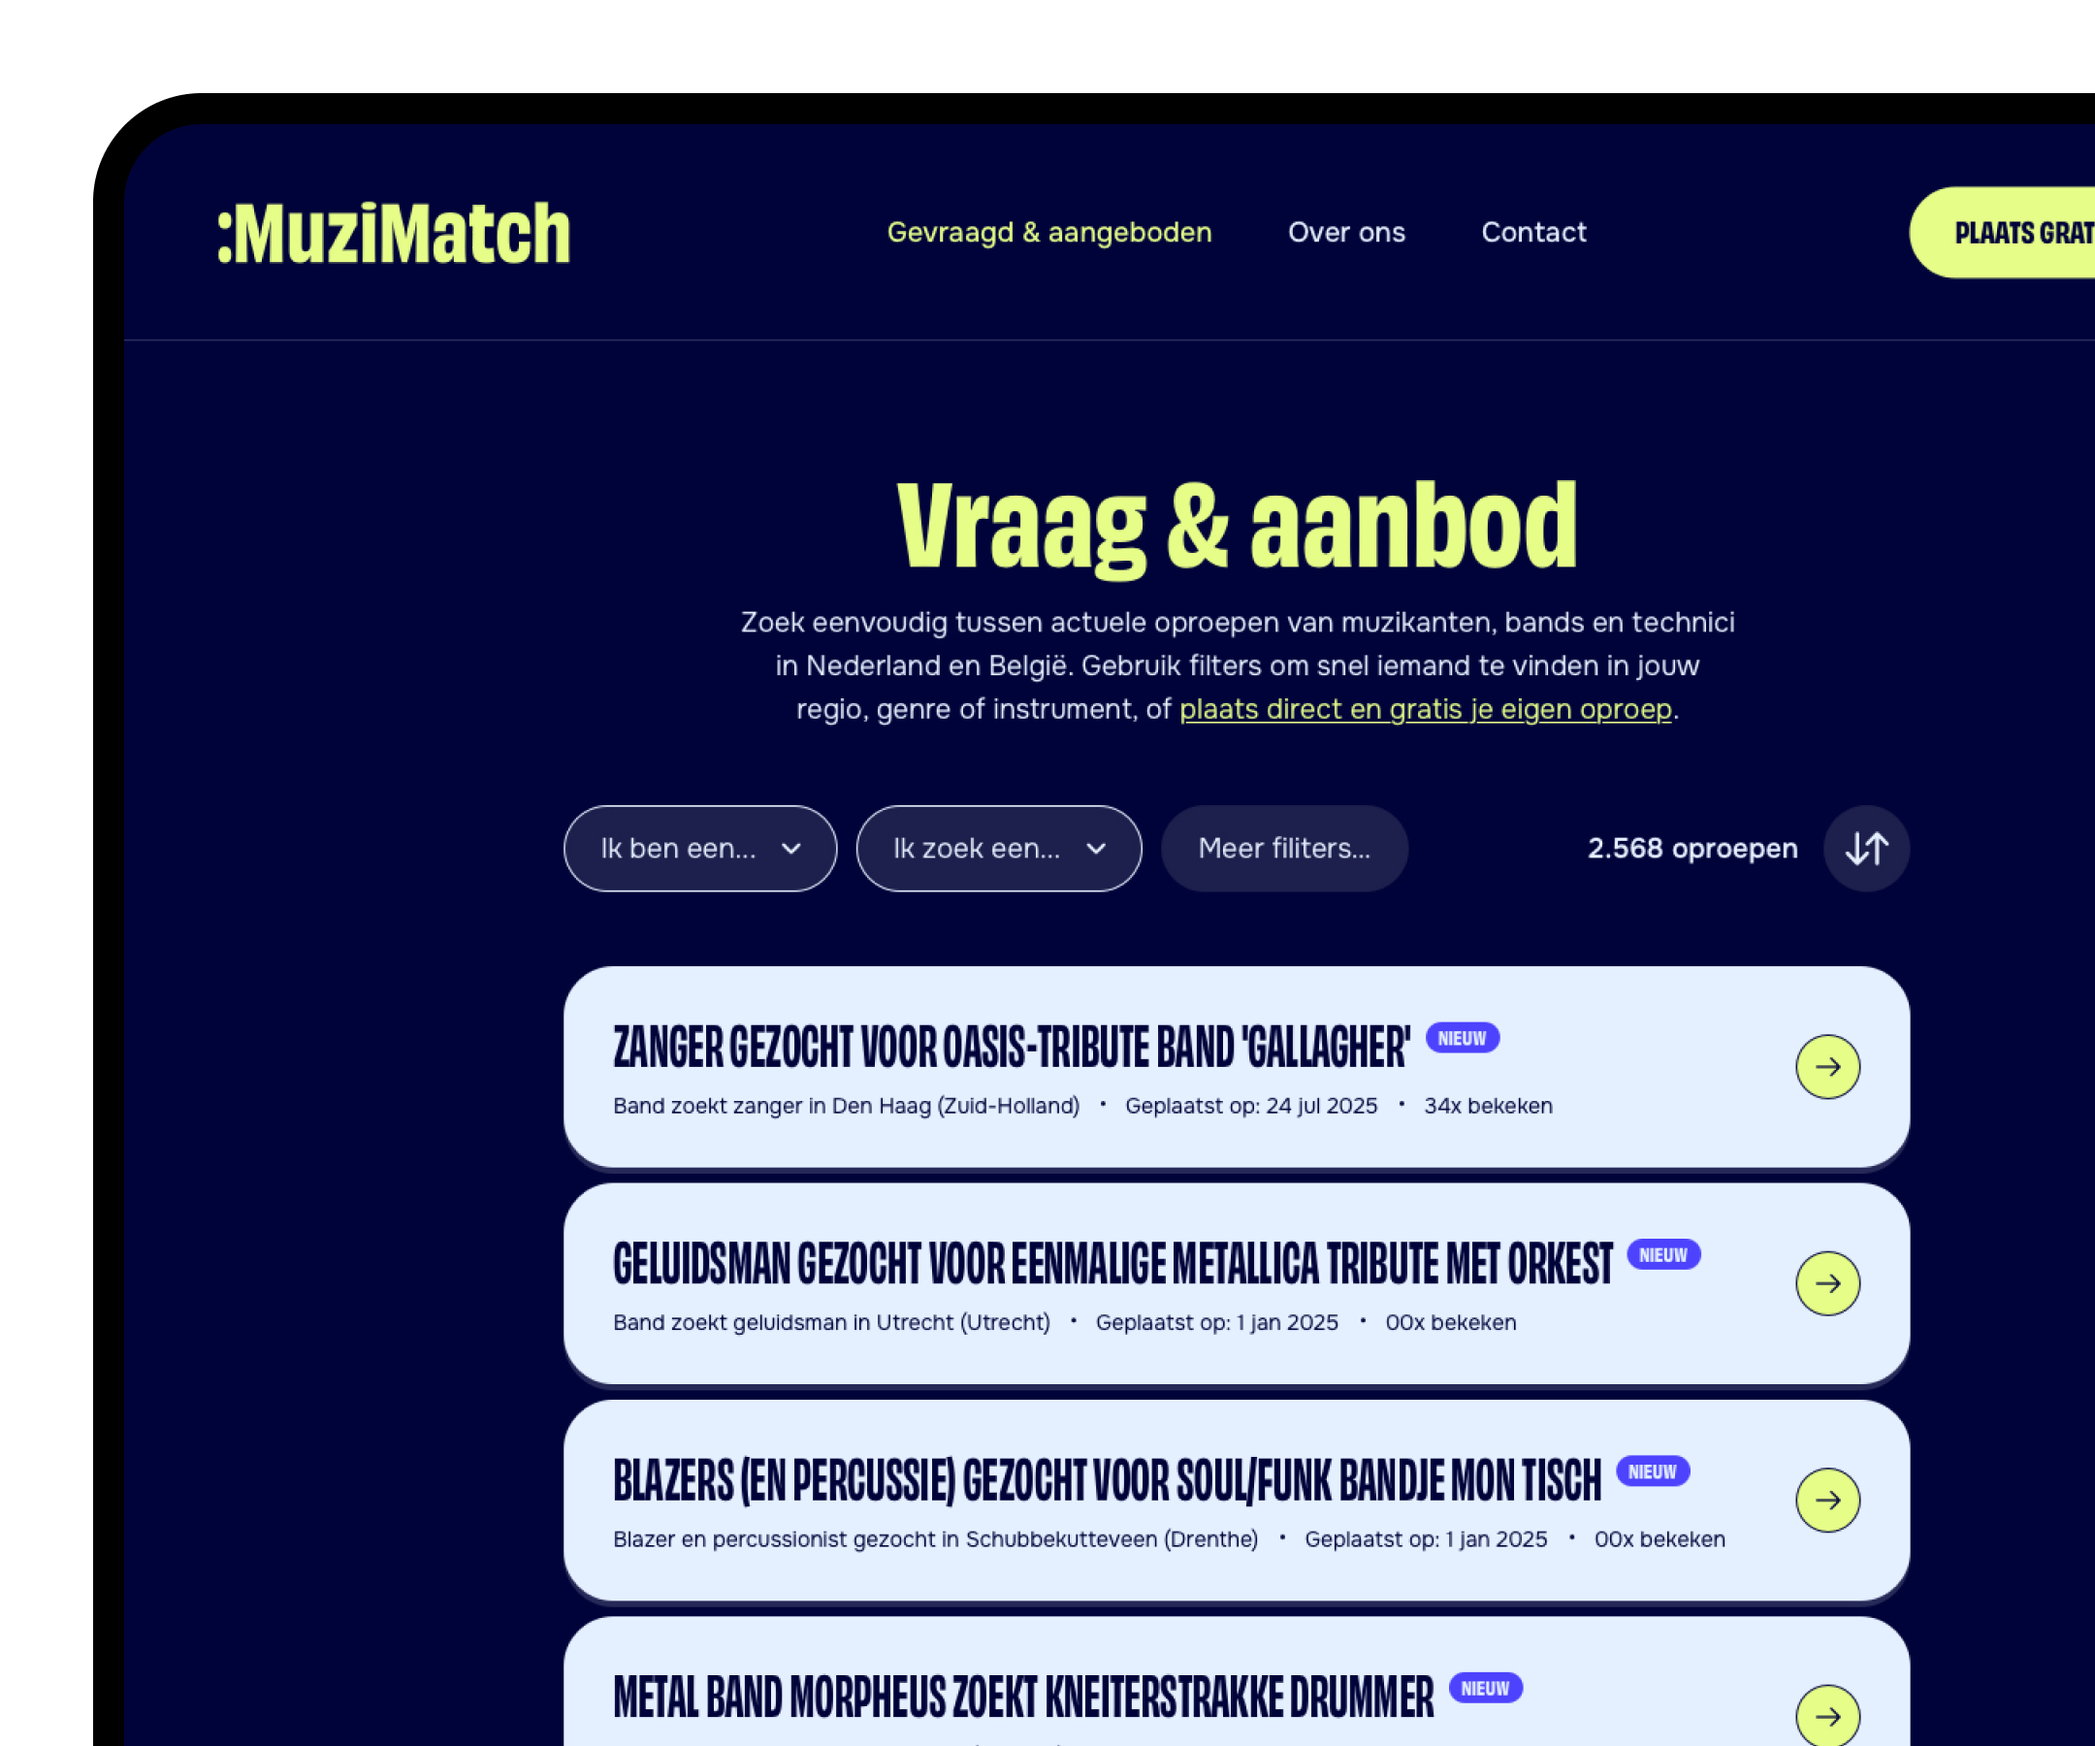
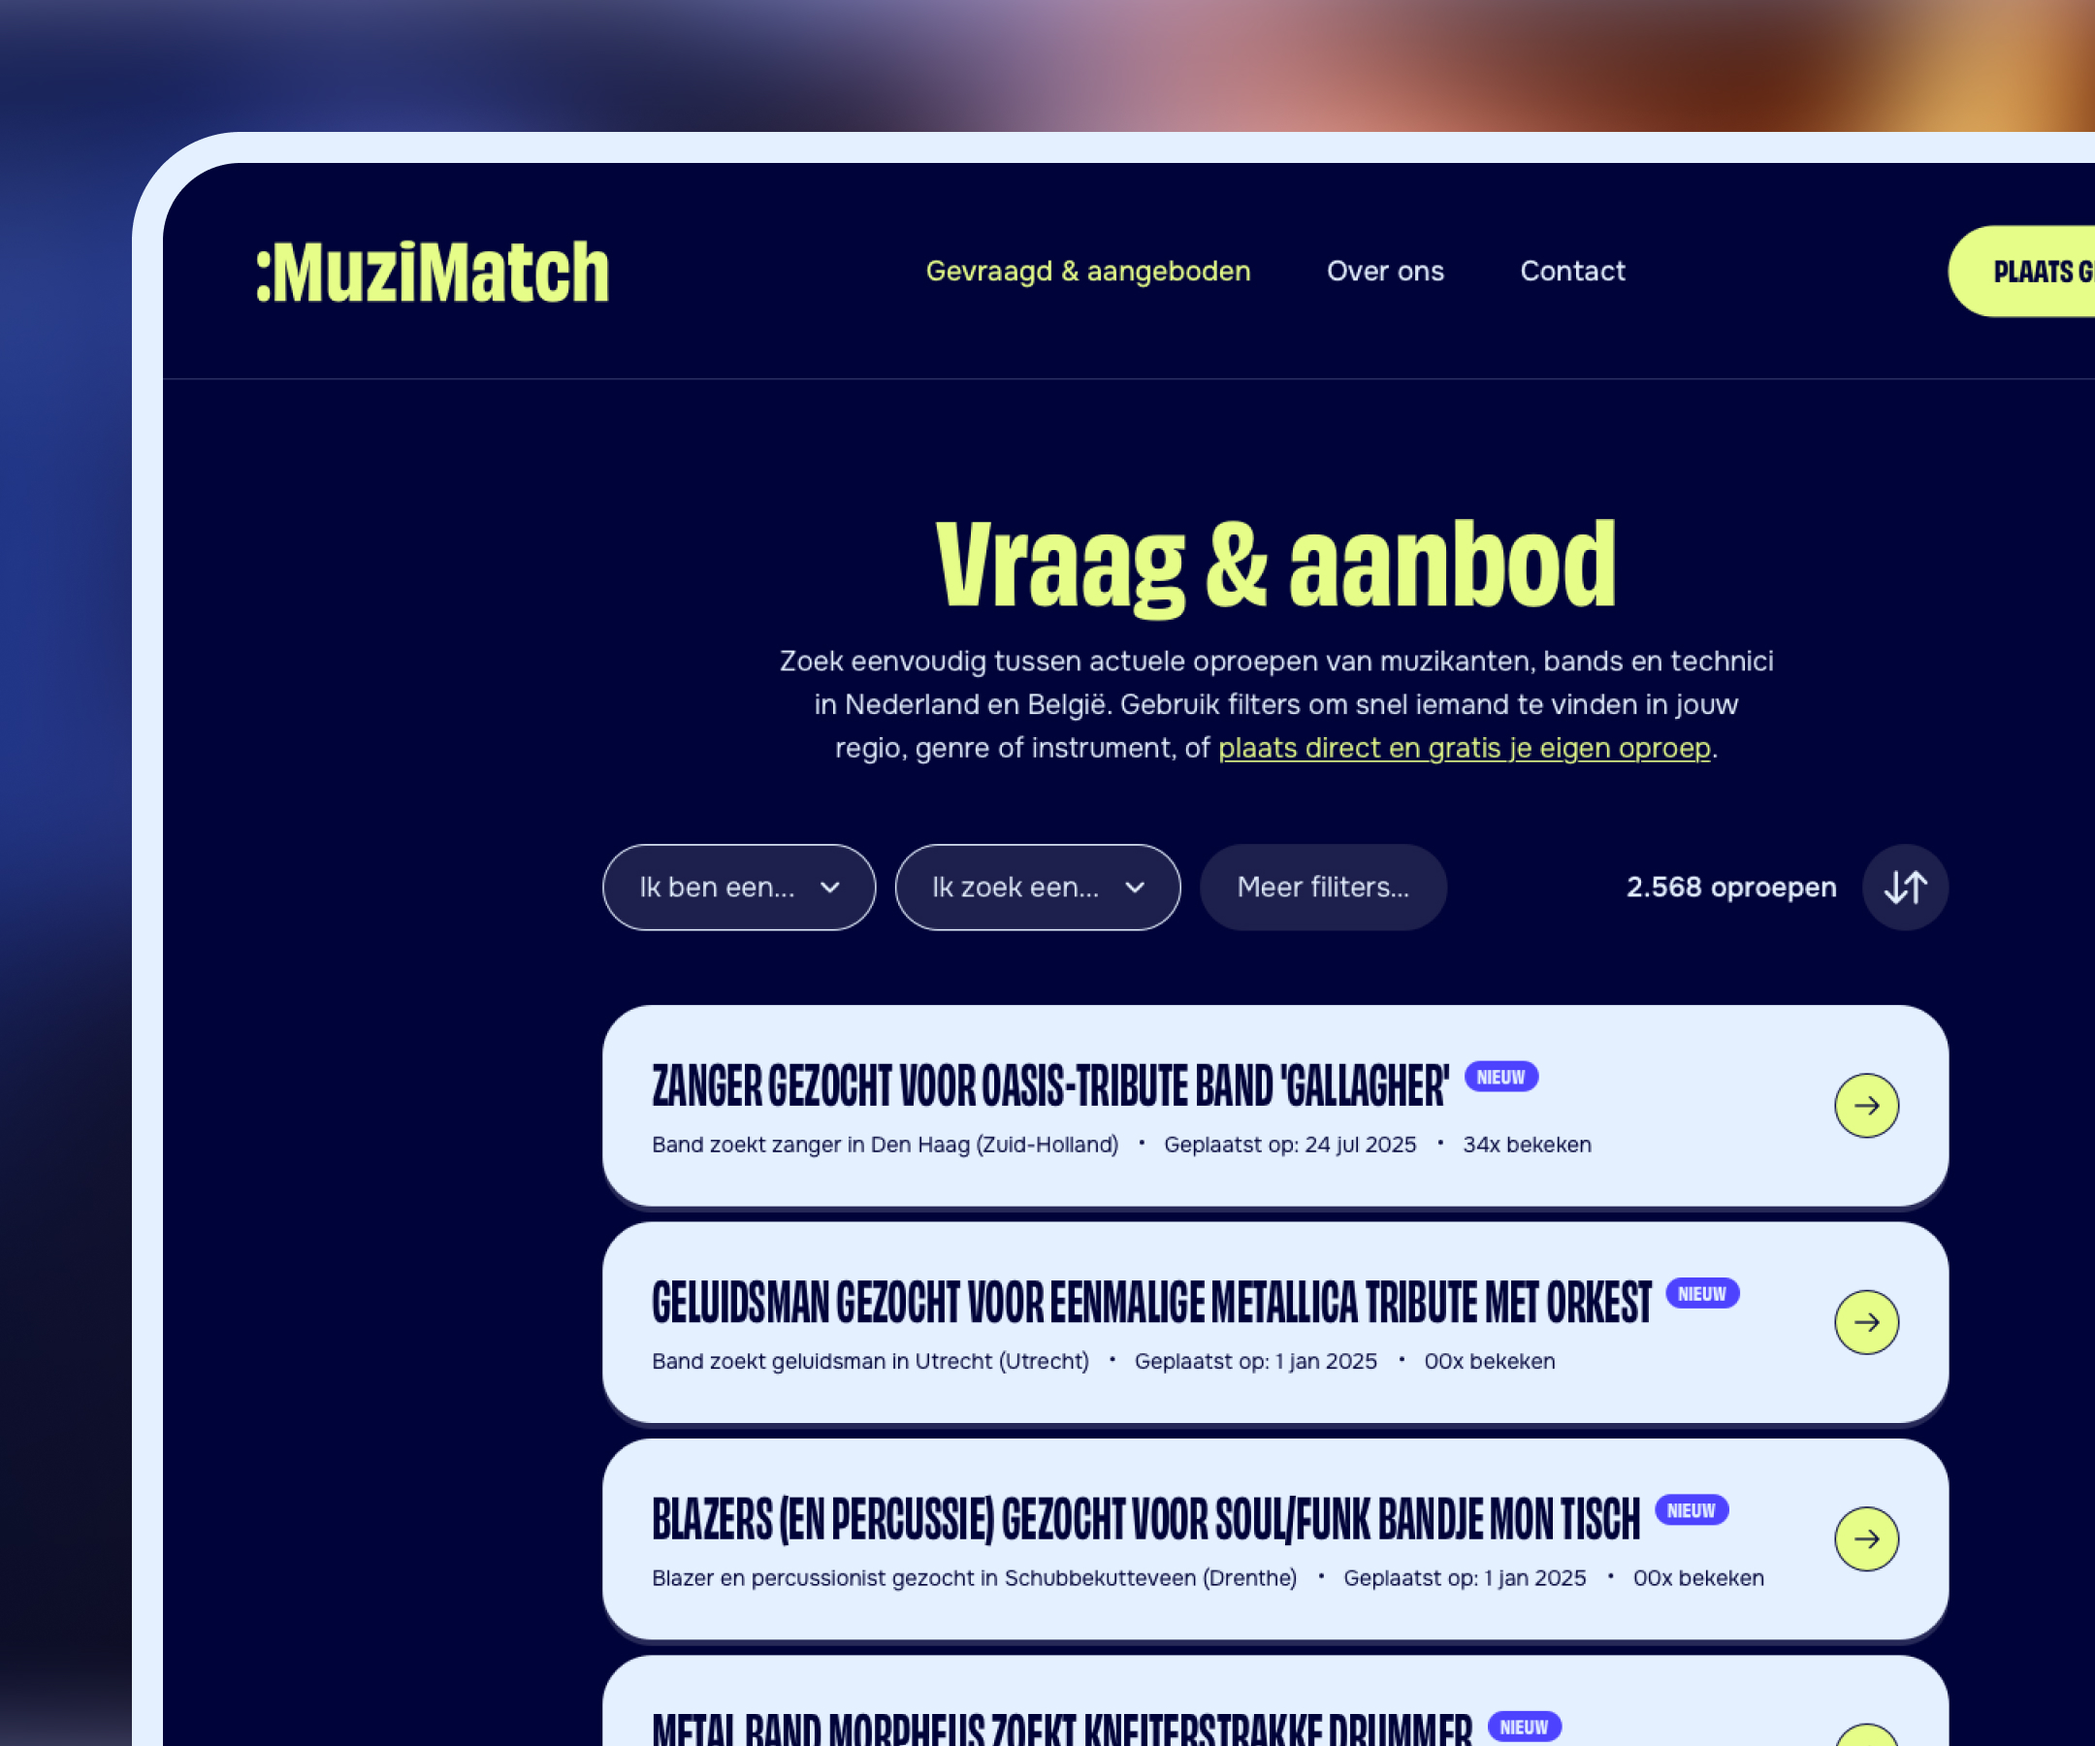
feat: expand MuziMatch case study

diff --git a/src/content/en/projects/muzimatch.ts b/src/content/en/projects/muzimatch.ts
@@ -1,9 +1,5 @@
 import type { ProjectContent } from '../../types'
 
-const paragraphOne = 'Finding musicians online often means relying on outdated platforms, scattered communities or services that add unnecessary friction to making contact. I saw an opportunity for a simpler approach, focused on helping musicians discover relevant people and get in touch with as little friction as possible.'
-const paragraphTwo = 'Voluptatum ratione dolor cupiditate ipsum praesentium dolor dolore mollitia dolores ut libero laudantium non in aut. Id nisi qui quibusdam velit non a fugit itaque necessitatibus rerum dolorum et enim vel.'
-const paragraphThree = 'Et sit repellat voluptas debitis et iusto quia vero corporis cum in qui nesciunt ipsum. Minima voluptate perspiciatis sapiente deleniti in et et est optio. Consectetur cupiditate sint saepe voluptates corporis enim excepturi. Sunt ad laudantium odio sit necessitatibus cum hic minima velit reprehenderit non ipsa impedit quis. Animi quo qui a neque sequi ut eum distinctio sed eos consequuntur.'
-
 const muzimatch = {
 	slug: 'muzimatch',
 	title: 'MuziMatch',
@@ -24,19 +20,20 @@ const muzimatch = {
 		],
 		sections: [
 			{
-				id: 'overview',
+				id: 'problem',
 				title: 'Finding the right musicians is harder than it should be',
 				spacing: 'spacious',
 				blocks: [
 					{
 						type: 'text',
 						paragraphs: [
-							paragraphOne,
+							'Finding musicians online often means relying on outdated platforms, scattered communities or services that add unnecessary friction to making contact. I saw an opportunity for a simpler approach, focused on helping musicians discover relevant people and get in touch with as little friction as possible.',
 						]
 					},
-					{
+					{ // Images
 						type: 'columns',
 						width: 'full',
+						caption: 'The first version of MuziMatch focused on the core experience: discovering relevant listings and making it easy to get in touch.',
 						columns: [
 							{
 								emphasis: 'equal',
@@ -51,7 +48,7 @@ const muzimatch = {
 								emphasis: 'equal',
 								blocks: [{
 									type: 'media',
-									src: 'projects/muzimatch/muzimatch-thumb-horizontal@2x',
+									src: 'projects/muzimatch/muzimatch-listing-detail-early-version@2x',
 									alt: 'MuziMatch landscape project artwork',
 									presentation: 'landscape'
 								}]
@@ -62,11 +59,12 @@ const muzimatch = {
 						type: 'text',
 						width: 'narrow',
 						align: 'center',
+						title: 'Starting with an empty marketplace',
 						paragraphs: [
-							paragraphOne,
-							paragraphTwo
+							'(Cold start / launch)'
 						]
 					},
+					/**
 					{
 						type: 'media',
 						width: 'full',
@@ -94,8 +92,46 @@ const muzimatch = {
 							presentation: 'landscape'
 						}
 					}
+					**/
 				]
-			}
+			},
+			{
+				id: 'accountless',
+				title: 'Removing the account',
+				spacing: 'spacious',
+				blocks: [
+					{
+						type: 'text',
+						paragraphs: [
+							'(Accountless model + privacy)',
+						]
+					},
+				]
+			},
+			{
+				id: 'experience',
+				title: 'Designing the core experience',
+				spacing: 'spacious',
+				blocks: []
+			},
+			{
+				id: 'iteration',
+				title: 'From assumptions to evidence',
+				spacing: 'spacious',
+				blocks: []
+			},
+			{
+				id: 'outcome',
+				title: 'An evolving product',
+				spacing: 'spacious',
+				blocks: []
+			},
+			{
+				id: 'refelction',
+				title: 'What I\'m taking forward',
+				spacing: 'spacious',
+				blocks: []
+			},
 		]
 	}
 } satisfies ProjectContent

diff --git a/src/components/work/ProjectCaseSections.vue b/src/components/work/ProjectCaseSections.vue
@@ -6,7 +6,7 @@
 		>
 			<div class="container">
 				<div class="row">
-					<div class="project-case-study__introduction-content">
+					<div class="project-case-study__introduction-content case-block--width-narrow case-block--align-center">
 						<p
 							v-for="(paragraph, index) in caseStudy.introduction"
 							:key="`introduction-${index}`"
@@ -31,6 +31,9 @@
 					<div
 						v-if="section.title"
 						class="project-case-study__section-heading"
+						:class="{
+							'case-block--width-narrow case-block--align-center': section.isFirst
+						}"
 					>
 						<h3>{{ section.title }}</h3>
 					</div>
@@ -60,13 +63,30 @@ const props = defineProps<{
 	projectSlug: ProjectSlug
 }>()
 
-const renderedSections = computed(() => props.caseStudy.sections.map((section) => ({
-	id: section.id,
-	title: section.title,
-	spacing: section.spacing ?? 'default',
-	blocks: section.blocks ?? [{
+const renderedSections = computed(() => props.caseStudy.sections.map((section, sectionIndex) => {
+	const isFirst = sectionIndex === 0
+	const blocks: CaseBlock[] = section.blocks ?? [{
 		type: 'text',
 		paragraphs: section.paragraphs
-	} satisfies CaseBlock]
-})))
+	}]
+	const firstTextBlockIndex = isFirst
+		? blocks.findIndex(block => block.type === 'text')
+		: -1
+
+	return {
+		id: section.id,
+		title: section.title,
+		spacing: section.spacing ?? 'default',
+		isFirst,
+		blocks: blocks.map((block, blockIndex) => (
+			blockIndex === firstTextBlockIndex
+				? {
+					...block,
+					width: block.width ?? 'narrow',
+					align: block.align ?? 'center'
+				}
+				: block
+		))
+	}
+}))
 </script>

diff --git a/src/components/work/case-blocks/CaseMediaBlock.vue b/src/components/work/case-blocks/CaseMediaBlock.vue
@@ -1,5 +1,6 @@
 <template>
-	<figure
+	<component
+		:is="rootElement"
 		class="case-media-block"
 		:class="`case-media-block--${block.presentation ?? 'natural'}`"
 	>
@@ -10,10 +11,10 @@
 			:fallback-format="block.format"
 			:position="mediaPosition"
 		/>
-		<figcaption v-if="block.caption" class="case-media-block__caption">
+		<figcaption v-if="block.caption" class="case-media-block__caption case-media-caption">
 			{{ block.caption }}
 		</figcaption>
-	</figure>
+	</component>
 </template>
 
 <script setup lang="ts">
@@ -23,7 +24,12 @@ import BaseImage from '../../base/BaseImage.vue'
 
 const props = defineProps<{
 	block: CaseMediaBlock
+	insideSharedFigure?: boolean
 }>()
+
+const rootElement = computed(() => (
+	props.insideSharedFigure && !props.block.caption ? 'div' : 'figure'
+))
 
 const mediaPositions = {
 	center: 'center center',

diff --git a/src/components/work/case-blocks/CaseColumnsBlock.vue b/src/components/work/case-blocks/CaseColumnsBlock.vue
@@ -1,5 +1,5 @@
 <template>
-	<div class="case-columns-block">
+	<component :is="block.caption ? 'figure' : 'div'" class="case-columns-block">
 		<div class="case-columns-block__grid">
 			<div
 				v-for="(column, columnIndex) in block.columns"
@@ -19,12 +19,16 @@
 					<CaseMediaBlock
 						v-else
 						:block="columnBlock"
+						:inside-shared-figure="Boolean(block.caption)"
 						class="case-block case-block--contained"
 					/>
 				</template>
 			</div>
 		</div>
-	</div>
+		<figcaption v-if="block.caption" class="case-columns-block__caption case-media-caption">
+			{{ block.caption }}
+		</figcaption>
+	</component>
 </template>
 
 <script setup lang="ts">

diff --git a/src/assets/styles/sections/_case-study.scss b/src/assets/styles/sections/_case-study.scss
@@ -103,6 +103,7 @@
 	&__image,
 	&__image img {
 		width: 100%;
+		border-radius: clamp(1rem, 2.5vw, 2rem);
 	}
 
 	&--wide &__image,
@@ -136,14 +137,14 @@
 	&--natural &__image img {
 		height: auto;
 	}
+}
 
-	&__caption {
-		@include type-role(label);
+.case-media-caption {
+	@include type-role(ui);
 
-		display: block;
-		margin-block-start: var(--space-3);
-		opacity: 0.65;
-	}
+	display: block;
+	margin-block-start: var(--space-6);
+	text-align: center;
 }
 
 .case-columns-block {

diff --git a/src/assets/styles/abstracts/_tokens.scss b/src/assets/styles/abstracts/_tokens.scss
@@ -236,6 +236,7 @@ $shadows: (
 	--radius-lg: 0.5rem;
 	--radius-xl: 0.75rem;
 	--radius-2xl: 1rem;
+	--radius-3xl: 2rem;
 	--radius-full: 9999px;
 
 	--shadow-sm: 0 0.125rem 0.375rem color-mix(in srgb, var(--color-black) 12%, transparent);

diff --git a/src/content/types.ts b/src/content/types.ts
@@ -82,6 +82,7 @@ export type CaseColumn = {
 
 export type CaseColumnsBlock = CaseBlockLayout & {
 	type: 'columns'
+	caption?: string
 	columns: [CaseColumn, ...CaseColumn[]]
 }
 
